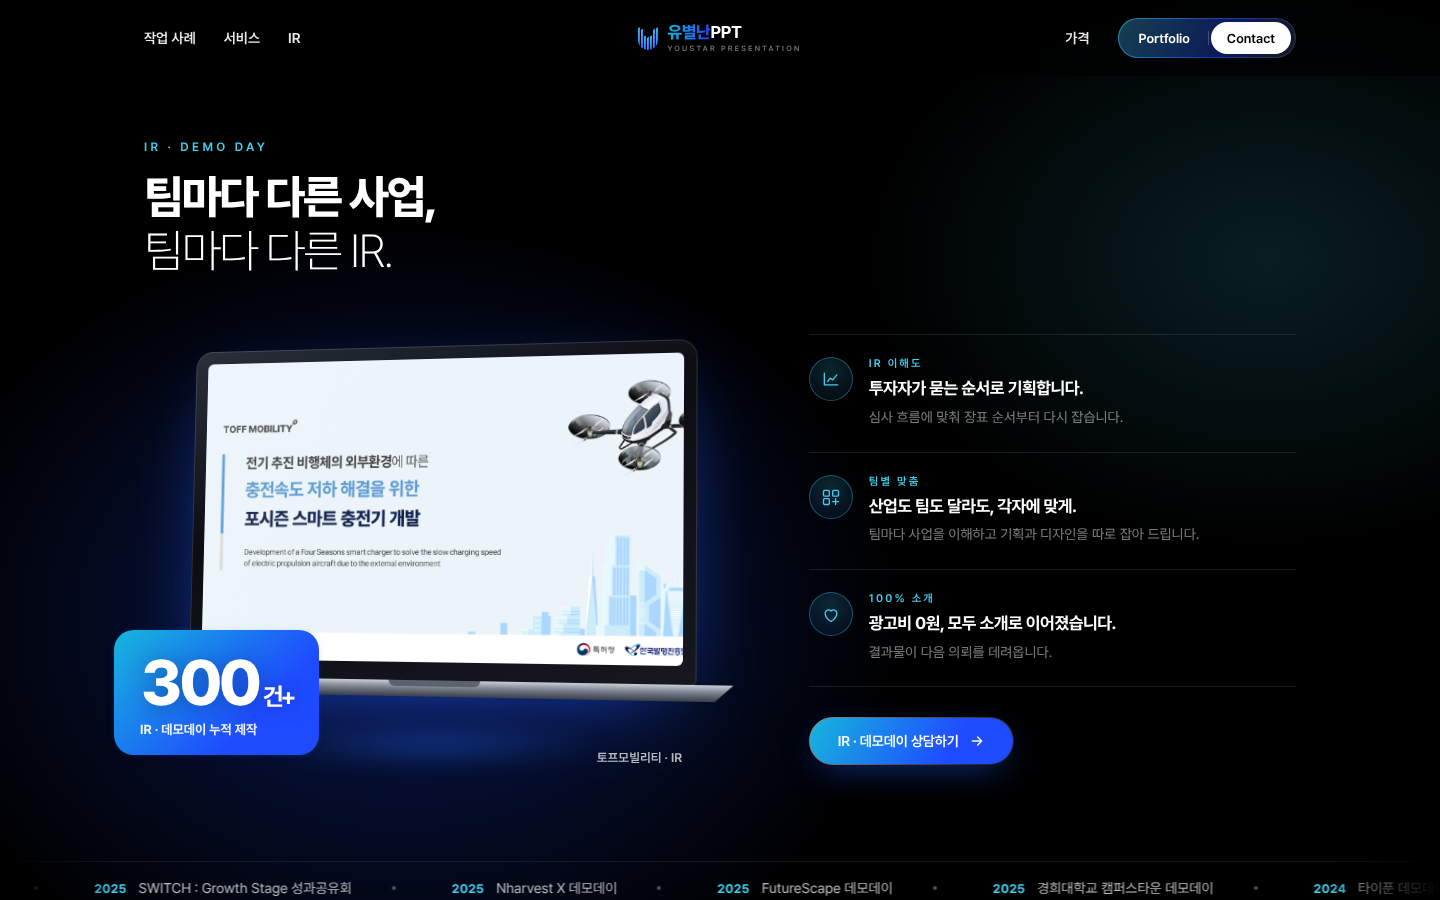
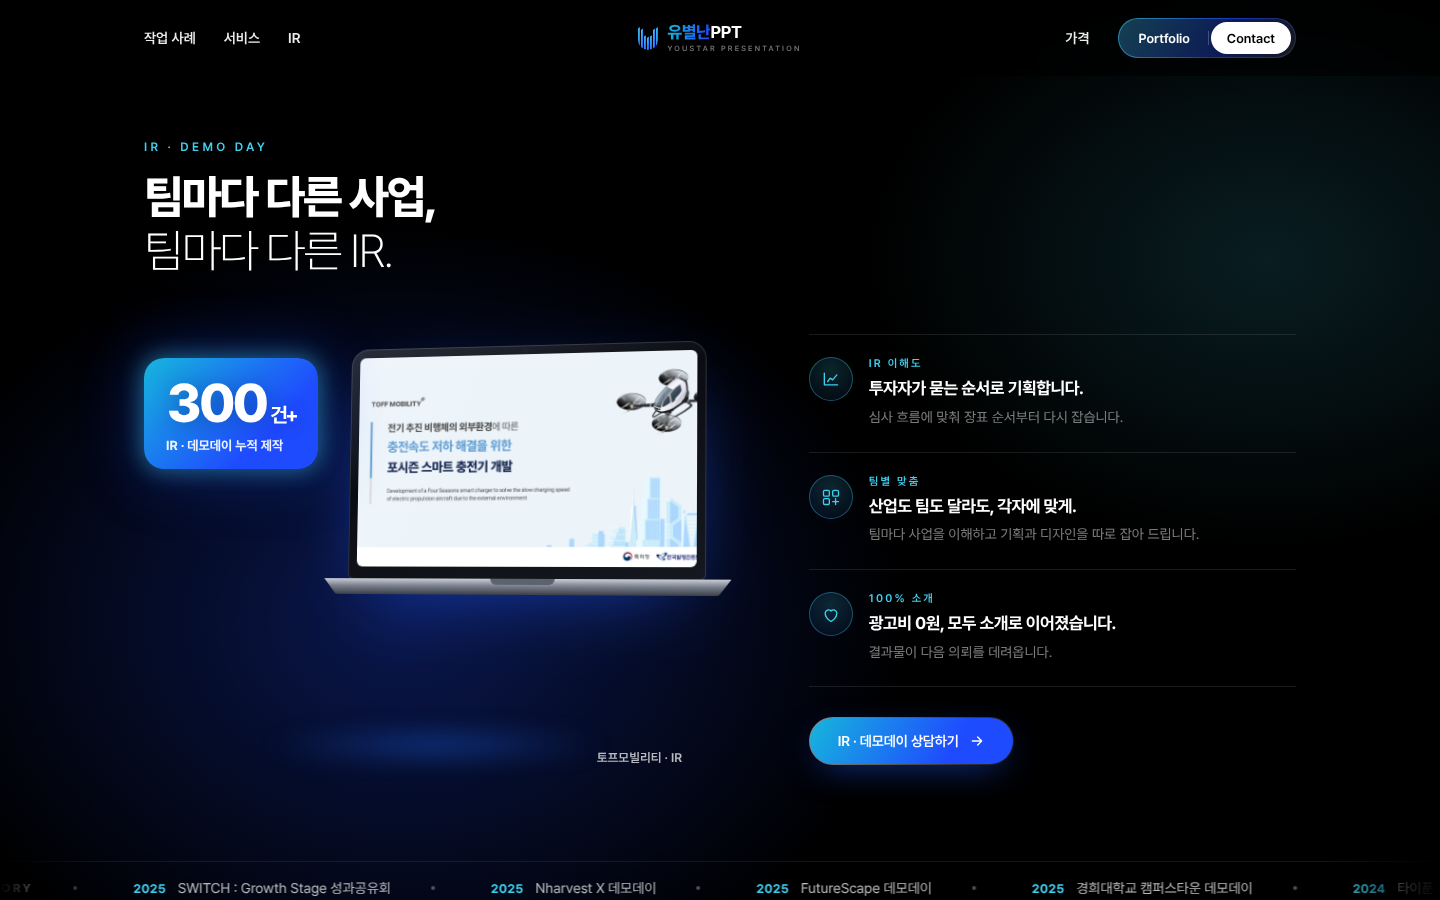
v2: IR laptop smaller and right with 300+ badge top-left; add AI retouch + extended production section
- AI: 가운데 비포·애프터(빛나는 경계선·둥근 손잡이, 진입 시 90%→50% 이동, 키보드·터치), 아이콘 세 가지
- 확장 제작: 제목 · 가로로 흐르는 작업 범위 칩 · 문의 버튼 한 줄

Claude-Session: https://claude.ai/code/session_01NURhbB6Mq8R8WnaczfYj5a

diff --git a/redesign/v2/index.html b/redesign/v2/index.html
@@ -176,6 +176,54 @@ a{color:inherit;text-decoration:none}
   .svc__foot{text-align:left;font-size:13px}
 }
 
+/* 여섯 번째: AI 리터치 — 가운데 큰 비포·애프터 + 짧은 세 가지, 아래 확장 제작 띠 */
+.aix{position:relative;padding:140px 0 120px;isolation:isolate;overflow-x:clip}
+.aix::before{content:"";position:absolute;inset:0;z-index:-1;background:radial-gradient(ellipse 55% 45% at 50% 55%,rgba(31,75,255,.28),transparent 70%),radial-gradient(ellipse 35% 35% at 15% 15%,rgba(63,208,240,.14),transparent 70%)}
+.aix__head{text-align:center}
+.aix small.k{display:block;font-size:12px;font-weight:600;letter-spacing:.28em;color:#3fd0f0;text-transform:uppercase}
+.aix h2{margin:16px 0 0;font-size:clamp(30px,3.6vw,52px);line-height:1.16;letter-spacing:-.045em}
+.aix h2 b{font-weight:800}.aix h2 span{font-weight:250}
+.aix__head p{margin:18px 0 0;font-size:16px;color:var(--ink-2);font-weight:500}
+.ba{position:relative;max-width:820px;margin:56px auto 0;border-radius:20px;overflow:hidden;box-shadow:0 50px 120px -40px rgba(31,90,255,.75),0 0 0 1px rgba(255,255,255,.1)}
+.ba__view{position:relative;aspect-ratio:16/9;background:#fff;touch-action:pan-y;cursor:ew-resize}
+.ba__view img{position:absolute;inset:0;width:100%;height:100%;object-fit:cover;user-select:none;-webkit-user-drag:none}
+.ba__after{clip-path:inset(0 0 0 var(--x,50%))}
+.ba__line{position:absolute;top:0;bottom:0;left:var(--x,50%);width:2px;margin-left:-1px;background:linear-gradient(#3fd0f0,#1f4bff);box-shadow:0 0 14px 2px rgba(63,208,240,.8),0 0 40px 8px rgba(31,75,255,.4);pointer-events:none}
+.ba__knob{position:absolute;top:50%;left:var(--x,50%);width:52px;height:52px;margin:-26px 0 0 -26px;border-radius:50%;display:grid;place-items:center;background:linear-gradient(135deg,#16b6dc,#1f4bff);color:#fff;pointer-events:none;box-shadow:0 0 0 6px rgba(63,208,240,.18),0 10px 30px -6px rgba(31,90,255,.9)}
+.ba__knob svg{width:22px;height:22px}
+.ba.is-anim .ba__after{transition:clip-path 1.4s var(--ease)}
+.ba.is-anim .ba__line,.ba.is-anim .ba__knob{transition:left 1.4s var(--ease)}
+.ba__tag{position:absolute;bottom:16px;z-index:2;padding:6px 12px;border-radius:999px;font-size:11px;font-weight:700;letter-spacing:.2em;color:#fff;background:rgba(5,8,20,.65);backdrop-filter:blur(8px);-webkit-backdrop-filter:blur(8px);pointer-events:none}
+.ba__tag--l{left:16px}.ba__tag--r{right:16px;background:linear-gradient(120deg,rgba(22,182,220,.85),rgba(31,75,255,.85))}
+.ba__range{position:absolute;inset:0;width:100%;height:100%;margin:0;opacity:0;cursor:ew-resize}
+.ba__hint{margin:16px 0 0;text-align:center;font-size:12.5px;color:var(--ink-3)}
+.aipts{display:grid;grid-template-columns:repeat(3,1fr);gap:40px;max-width:980px;margin:56px auto 0;padding:0;list-style:none}
+.aipts li{display:grid;grid-template-columns:40px 1fr;gap:14px;align-items:start}
+.aipts .ic{width:40px;height:40px;border-radius:50%;display:grid;place-items:center;color:#3fd0f0;background:radial-gradient(circle at 50% 30%,rgba(63,208,240,.18),rgba(31,75,255,.06));box-shadow:inset 0 0 0 1px rgba(63,208,240,.35)}
+.aipts .ic svg{width:18px;height:18px}
+.aipts h3{margin:2px 0 0;font-size:16px;font-weight:700;letter-spacing:-.02em}
+.aipts p{margin:6px 0 0;font-size:13.5px;line-height:1.65;color:var(--ink-3)}
+/* 확장 제작: 조용한 한 줄 */
+.ext{display:flex;align-items:center;gap:40px;margin-top:110px;padding-top:40px;border-top:1px solid rgba(255,255,255,.08)}
+.ext__t{flex:none}
+.ext__t b{display:block;font-size:18px;font-weight:700;letter-spacing:-.02em}
+.ext__t span{display:block;margin-top:6px;font-size:13px;color:var(--ink-3)}
+.ext__flow{flex:1;min-width:0;overflow:hidden;-webkit-mask:linear-gradient(90deg,transparent,#000 8%,#000 92%,transparent);mask:linear-gradient(90deg,transparent,#000 8%,#000 92%,transparent)}
+.ext__row{display:flex;gap:8px;width:max-content;animation:wallmove 45s linear infinite}
+.ext__flow:hover .ext__row{animation-play-state:paused}
+.ext__row span{height:36px;display:inline-flex;align-items:center;padding:0 16px;border-radius:999px;font-size:13px;color:var(--ink-2);background:rgba(255,255,255,.04);white-space:nowrap}
+.ext .gbtn{flex:none;height:46px;font-size:14px}
+@media (max-width:860px){
+  .aix{padding:96px 0 80px}
+  .aix h2{font-size:clamp(28px,8vw,36px)}
+  .aix__head p{font-size:14.5px}
+  .ba{margin-top:36px;border-radius:14px}
+  .ba__knob{width:42px;height:42px;margin:-21px 0 0 -21px}
+  .aipts{grid-template-columns:1fr;gap:22px;margin-top:36px}
+  .ext{flex-direction:column;align-items:stretch;gap:20px;margin-top:72px}
+  .ext .gbtn{width:100%}
+}
+
 /* 섹션마다 핵심 요소에 첫 화면 빛과 같은 청록·파랑 네온을 은은하게 */
 @keyframes neonbtn{0%,100%{box-shadow:0 0 0 0 rgba(63,208,240,0),0 0 0 0 rgba(31,75,255,0)}45%,60%{box-shadow:0 0 26px 3px rgba(63,208,240,.5),0 0 70px 14px rgba(31,75,255,.3)}}
 .neon-btn{animation:neonbtn 5.5s ease-in-out infinite}
@@ -197,7 +245,7 @@ a{color:inherit;text-decoration:none}
 .irx h2{margin:16px 0 0;font-size:clamp(30px,3.2vw,46px);line-height:1.18;letter-spacing:-.045em}
 .irx h2 b{font-weight:800}.irx h2 span{font-weight:250}
 /* 노트북: 배경 없이, 살짝 기울어진 채 떠 있다 */
-.dev{grid-area:dev;position:relative;perspective:1600px;padding:10px 0 30px}
+.dev{grid-area:dev;position:relative;perspective:1600px;padding:10px 0 30px 30%}
 .dev__body{position:relative;transform:rotateY(-12deg) rotateX(4deg);transform-style:preserve-3d;transition:transform 1s var(--ease)}
 .dev:hover .dev__body{transform:rotateY(-6deg) rotateX(2deg)}
 .dev__lid{position:relative;margin:0 6%;padding:2.2% 2.2% 3.2%;border-radius:18px 18px 6px 6px;background:linear-gradient(160deg,#2a2f3a,#0b0d12 40%,#15181f);box-shadow:inset 0 0 0 1px rgba(255,255,255,.14),0 30px 80px -30px rgba(31,90,255,.8)}
@@ -210,8 +258,8 @@ a{color:inherit;text-decoration:none}
 .dev__base::before{content:"";position:absolute;left:50%;top:0;width:16%;height:6px;margin-left:-8%;border-radius:0 0 8px 8px;background:#5d636e}
 .dev__glow{position:absolute;left:8%;right:8%;bottom:0;height:40px;background:radial-gradient(ellipse 50% 50% at 50% 50%,rgba(31,110,255,.55),transparent 70%);filter:blur(12px);z-index:-1}
 .dev__name{position:absolute;right:8%;bottom:0;font-size:12.5px;font-weight:600;color:var(--ink-2)}
-.badge300{position:absolute;left:-30px;bottom:10px;z-index:3;padding:20px 26px 18px;border-radius:20px;background:linear-gradient(135deg,#16b6dc,#1f4bff 70%);box-shadow:0 24px 60px -16px rgba(31,90,255,.9),inset 0 1px 0 rgba(255,255,255,.35)}
-.badge300 b{display:block;font-size:64px;font-weight:800;letter-spacing:-.05em;line-height:1;color:#fff;font-variant-numeric:tabular-nums;text-shadow:0 2px 20px rgba(0,20,80,.35)}
+.badge300{position:absolute;left:0;top:24px;z-index:3;padding:18px 22px 16px;border-radius:20px;background:linear-gradient(135deg,#16b6dc,#1f4bff 70%);box-shadow:0 24px 60px -16px rgba(31,90,255,.9),inset 0 1px 0 rgba(255,255,255,.35)}
+.badge300 b{display:block;font-size:54px;font-weight:800;letter-spacing:-.05em;line-height:1;color:#fff;font-variant-numeric:tabular-nums;text-shadow:0 2px 20px rgba(0,20,80,.35)}
 .badge300 b em{font-style:normal;font-size:.38em;font-weight:700;margin-left:4px}
 .badge300 span{display:block;margin-top:8px;font-size:13px;font-weight:700;color:rgba(255,255,255,.92)}
 .badge300.neon-btn{animation:neonbtn 5.5s ease-in-out infinite}
@@ -238,7 +286,8 @@ a{color:inherit;text-decoration:none}
   .irx .wrap{grid-template-columns:1fr;grid-template-areas:"head" "dev" "pts";row-gap:48px}
   .irx h2{font-size:clamp(28px,8vw,36px)}
   .dev__body{transform:rotateY(-8deg) rotateX(3deg)}
-  .badge300{left:-6px;bottom:6px;padding:12px 16px}
+  .badge300{left:-6px;top:auto;bottom:6px;padding:12px 16px}
+  .dev{padding-left:0}
   .badge300 b{font-size:44px}
   .irx .gbtn{width:100%}
   .hstrip{margin-top:64px}
@@ -363,6 +412,35 @@ a{color:inherit;text-decoration:none}
     </div>
   </div>
   <div class="hstrip" aria-label="데모데이 이력"><div class="hstrip__row"><span class="cap">DEMO DAY HISTORY</span><span><b>2025</b>SWITCH : Growth Stage 성과공유회</span><span><b>2025</b>Nharvest X 데모데이</span><span><b>2025</b>FutureScape 데모데이</span><span><b>2025</b>경희대학교 캠퍼스타운 데모데이</span><span><b>2024</b>타이푼 데모데이</span><span><b>2024</b>SWITCH 데모데이</span><span><b>2024</b>경희대학교 캠퍼스타운 데모데이</span><span aria-hidden="true" class="cap">DEMO DAY HISTORY</span><span aria-hidden="true"><b>2025</b>SWITCH : Growth Stage 성과공유회</span><span aria-hidden="true"><b>2025</b>Nharvest X 데모데이</span><span aria-hidden="true"><b>2025</b>FutureScape 데모데이</span><span aria-hidden="true"><b>2025</b>경희대학교 캠퍼스타운 데모데이</span><span aria-hidden="true"><b>2024</b>타이푼 데모데이</span><span aria-hidden="true"><b>2024</b>SWITCH 데모데이</span><span aria-hidden="true"><b>2024</b>경희대학교 캠퍼스타운 데모데이</span></div></div>
+</section>
+<section class="aix" id="visual">
+  <div class="wrap">
+    <div class="aix__head">
+      <small class="k">AI Retouch</small>
+      <h2><b>AI로 만든 초안도,</b><br><span>기획자의 손을 거치면.</span></h2>
+      <p>수치를 확인하고, 흐름을 다시 잡고, 흔한 AI 디자인을 걷어냅니다.</p>
+    </div>
+    <div class="ba" id="ba">
+      <div class="ba__view">
+        <img src="assets/slides/before.svg" alt="작업 전: 글자만 빽빽한 초안 슬라이드">
+        <img class="ba__after" src="assets/slides/after.svg" alt="작업 후: 핵심 수치가 한눈에 보이는 슬라이드">
+        <span class="ba__line"></span><span class="ba__knob" aria-hidden="true"><svg viewBox="0 0 24 24" fill="none" stroke="currentColor" stroke-width="2.2" stroke-linecap="round" stroke-linejoin="round"><path d="M9 6l-6 6 6 6M15 6l6 6-6 6"/></svg></span>
+        <span class="ba__tag ba__tag--l">BEFORE</span><span class="ba__tag ba__tag--r">AFTER</span>
+        <input class="ba__range" type="range" min="0" max="100" value="50" aria-label="작업 전후 비교: 좌우로 움직여 보세요">
+      </div>
+    </div>
+    <p class="ba__hint">← 끌어서 비교해 보세요 → · 자체 제작 예시입니다.</p>
+    <ul class="aipts">
+      <li><span class="ic"><svg viewBox="0 0 24 24" fill="none" stroke="currentColor" stroke-width="1.6" stroke-linecap="round" stroke-linejoin="round"><circle cx="11" cy="11" r="6"/><path d="M20 20l-4.5-4.5M9 11h4"/></svg></span><div><h3>숫자와 출처 확인</h3><p>원본 자료와 대조하고, 확인이 필요한 부분은 먼저 묻습니다.</p></div></li>
+      <li><span class="ic"><svg viewBox="0 0 24 24" fill="none" stroke="currentColor" stroke-width="1.6" stroke-linecap="round" stroke-linejoin="round"><path d="M4 7h11M4 12h16M4 17h8"/><path d="M17 4l3 3-3 3"/></svg></span><div><h3>흐름 다시 잡기</h3><p>나열된 내용을 발표 순서에 맞게 다시 배열합니다.</p></div></li>
+      <li><span class="ic"><svg viewBox="0 0 24 24" fill="none" stroke="currentColor" stroke-width="1.6" stroke-linecap="round" stroke-linejoin="round"><path d="M12 3l2.2 5.3L20 9l-4.4 3.8L17 18.5 12 15.6 7 18.5l1.4-5.7L4 9l5.8-.7z"/></svg></span><div><h3>AI 티 걷어내기</h3><p>글꼴 · 여백 · 이미지 톤을 통일해 사업에 맞는 장표로.</p></div></li>
+    </ul>
+    <div class="ext">
+      <div class="ext__t"><b>사업에 필요한 제작도 이어서.</b><span>범위에 맞춰 진행하며, 금액은 별도 협의합니다.</span></div>
+      <div class="ext__flow" aria-label="PPT 외 제작 가능 범위"><div class="ext__row"><span>제품 · 서비스 연출컷</span><span>사진 보정 · 합성</span><span>상세페이지</span><span>랜딩페이지 · 홈페이지</span><span>서비스 소개 인포그래픽</span><span>짧은 인포그래픽 영상</span><span>웹 · UI/UX</span><span>AI 업무 자동화 툴</span><span>Android · iOS 앱 상담</span><span aria-hidden="true">제품 · 서비스 연출컷</span><span aria-hidden="true">사진 보정 · 합성</span><span aria-hidden="true">상세페이지</span><span aria-hidden="true">랜딩페이지 · 홈페이지</span><span aria-hidden="true">서비스 소개 인포그래픽</span><span aria-hidden="true">짧은 인포그래픽 영상</span><span aria-hidden="true">웹 · UI/UX</span><span aria-hidden="true">AI 업무 자동화 툴</span><span aria-hidden="true">Android · iOS 앱 상담</span></div></div>
+      <a class="gbtn" href="#contact">확장 제작 문의하기<svg viewBox="0 0 24 24" fill="none" stroke="currentColor" stroke-width="2" stroke-linecap="round" stroke-linejoin="round"><path d="M5 12h14M13 6l6 6-6 6"/></svg></a>
+    </div>
+  </div>
 </section>
 </main>
 
@@ -616,6 +694,17 @@ a{color:inherit;text-decoration:none}
       if (!timer && !reduce) timer = setInterval(next, 3600);
     } else if (timer) { clearInterval(timer); timer = 0; }
   }, { threshold: .3 }).observe(lap);
+})();
+</script>
+<script>
+(() => {
+  const ba = document.getElementById("ba"); if (!ba) return;
+  const reduce = matchMedia("(prefers-reduced-motion: reduce)").matches;
+  const r = ba.querySelector(".ba__range"), set = (v) => ba.style.setProperty("--x", v + "%");
+  r.addEventListener("input", () => { ba.classList.remove("is-anim"); set(r.value); });
+  set(reduce ? 50 : 90); r.value = reduce ? 50 : 90;
+  new IntersectionObserver((es, o) => es.forEach((e) => { if (!e.isIntersecting || reduce) return; o.disconnect();
+    setTimeout(() => { ba.classList.add("is-anim"); set(50); r.value = 50; setTimeout(() => ba.classList.remove("is-anim"), 1500); }, 300); }), { threshold: .5 }).observe(ba);
 })();
 </script>
 
